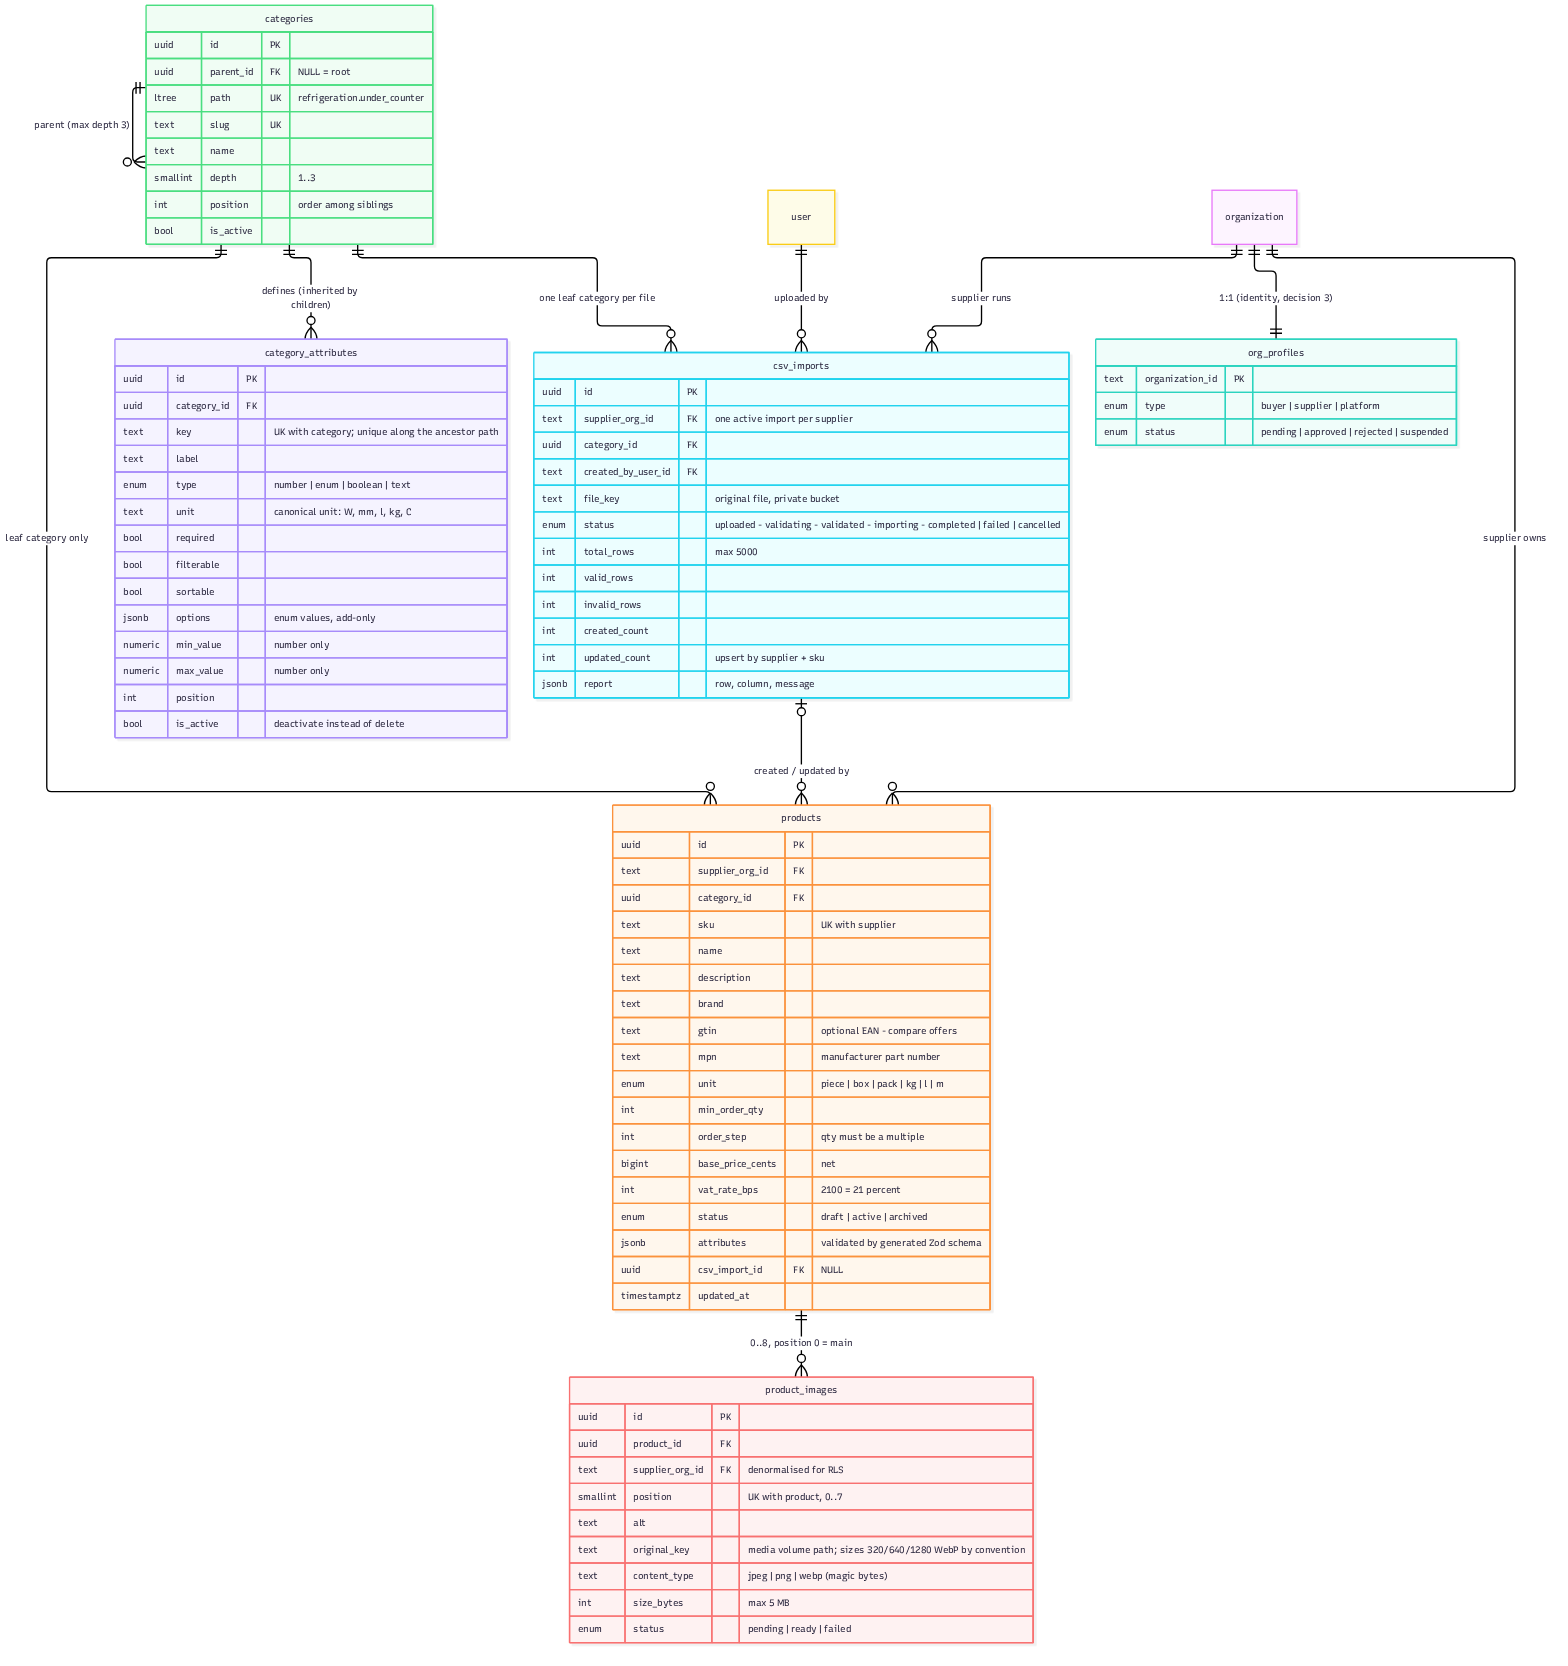
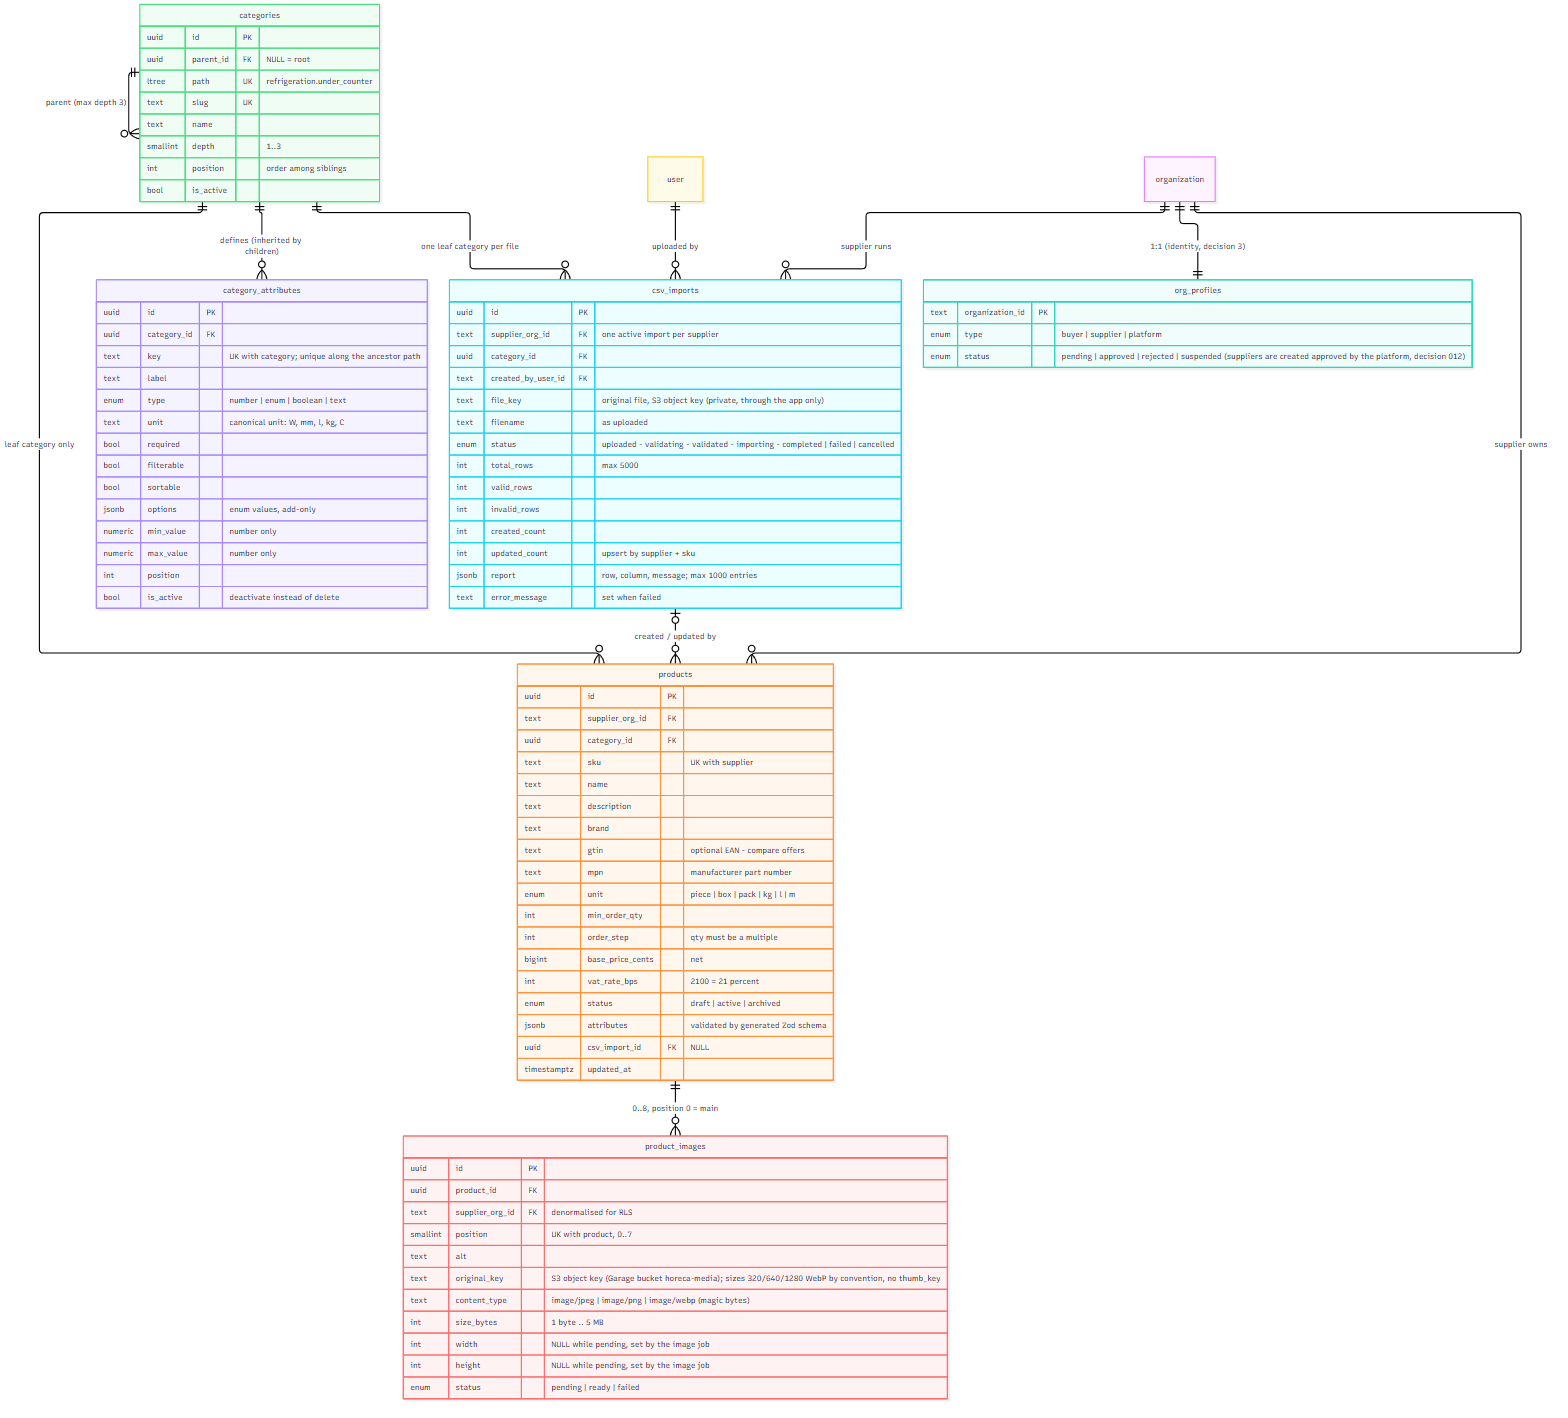
docs(diagrams): re-render the PNGs of diagrams 08, 09, 11 and 12 from their sources
The .mmd sources were updated in the previous diagram PR but the pictures still showed the old
design. They are now rendered with mermaid-cli 12.2.0 and local Chrome (scale 2, white background).

Rendering found a real error that reading could not: diagram 12 did not parse, because a semicolon
ends a statement in a Mermaid sequence diagram and two messages contained one. Both are rewritten.

The README now says how to re-render (version 12 has no -w option) and that the .mmd wins if a
picture and its source disagree; the data model no longer says the PNGs are pending.

Refs D4-B4

Changed region(s): [[0.0, 0.0, 0.9375, 0.9929], [0.9375, 0.3103, 1.0, 0.3413]]

diff --git a/docs/diagrams/README.md b/docs/diagrams/README.md
@@ -38,6 +38,6 @@ wireframes — run them against the decisions zip to regenerate everything.
 
 ## Status after the reviews (24.11.2026)
 - **Current and edited to match the plan:** `architecture`, `cicd`, `deployment`, `08-erd-catalogue`, `09-erd-orders`, `11-state-suborder`, `12-checkout-sequence` (`.mmd` + PNG). Overrides are listed in `docs/decisions-9-11/APPLIED.md`.
-- **Updated again on 26.11 (D4-B4), after migrations 0003–0005:** the `.mmd` sources of `08-erd-catalogue`, `09-erd-orders`, `11-state-suborder` and `12-checkout-sequence` now match the real schema and decision 012 (purchase mode per sub-order, no `orders.payment_method`, `not_applicable`, `commission_payment`, pro-forma for the platform part only, shipping waits for payment, system cancellation, S3 object keys, card payment and supplier submission after commit). **The PNGs of these four were not regenerated yet** — the `.mmd` is the truth until they are re-rendered.
+- **Updated again on 26.11 (D4-B4), after migrations 0003–0005:** the `.mmd` sources of `08-erd-catalogue`, `09-erd-orders`, `11-state-suborder` and `12-checkout-sequence` now match the real schema and decision 012 (purchase mode per sub-order, no `orders.payment_method`, `not_applicable`, `commission_payment`, pro-forma for the platform part only, shipping waits for payment, system cancellation, S3 object keys, card payment and supplier submission after commit). The PNGs of these four were **re-rendered from the `.mmd` on 26.11** (mermaid-cli 12.2.0, local Chrome): `pnpm dlx @mermaid-js/mermaid-cli@12.2.0 -p <puppeteer config with "executablePath" of Chrome> -i docs/diagrams/<name>.mmd -o docs/diagrams/<name>.png -b white -s 2` (run it with `PUPPETEER_SKIP_DOWNLOAD=1`; version 12 has no `-w`). Re-render after every change to a `.mmd`; if a picture and its `.mmd` disagree, the `.mmd` is right.
 - **Partly outdated — read with `APPLIED.md`:** `01-erd-complete` (still shows `invoice_counters` and `thumb_key`; regenerate from the real schema after the D4 migrations), `05-wf-supplier-dashboard` (shows the dropped pending / earned / ready-for-payout split), `02-sitemap` (shows suppliers browsing the catalogue and screens now on the "after the project" list), `07-permission-matrix` (catalogue row), `10-erd-stretch` (unchanged, still valid).
 - **On D20:** point the generators in `sources/` at the repository's real Drizzle schema, not at the original decision files.

diff --git a/docs/specification/data-model.md b/docs/specification/data-model.md
@@ -22,10 +22,10 @@ is a one-column comparison and a supplier never reads the buyer's `orders` row (
 | Diagram | Status |
 |---|---|
 | [`01-erd-complete`](../diagrams/01-erd-complete.png) — all tables | Pre-012. Needs `sub_orders.mode`, `supplier_submission`, `commission_payment`, `supplier_agreements`, `payments`, `payment_events`, `product_stock`; no `payment_method`, no `invoice_counters`, no `thumb_key`. Refreshed in D14-B3 |
-| [`08-erd-catalogue`](../diagrams/08-erd-catalogue.mmd), [`09-erd-orders`](../diagrams/09-erd-orders.mmd), [`11-state-suborder`](../diagrams/11-state-suborder.mmd), [`12-checkout-sequence`](../diagrams/12-checkout-sequence.mmd) | **Updated 26.11 (D4-B4):** the `.mmd` sources match migrations 0003–0005 and decision 012. The PNG renderings of these four are re-rendered separately |
+| [`08-erd-catalogue`](../diagrams/08-erd-catalogue.mmd), [`09-erd-orders`](../diagrams/09-erd-orders.mmd), [`11-state-suborder`](../diagrams/11-state-suborder.mmd), [`12-checkout-sequence`](../diagrams/12-checkout-sequence.mmd) | **Updated 26.11 (D4-B4):** the `.mmd` sources match migrations 0003–0005 and decision 012, and the PNGs were re-rendered from them |
 
-> **Honest note:** until the PNGs are re-rendered and `01-erd-complete` is refreshed (D14-B3), a picture and the text
-> below can disagree. The text of this file, the `.mmd` sources and `APPLIED.md` are right; the pictures lag.
+> **Honest note:** until `01-erd-complete` is refreshed (D14-B3), that one picture and the text below can disagree.
+> The text of this file, the `.mmd` sources and `APPLIED.md` are right; the old overview picture lags.
 
 ## 6.2 Entity descriptions
 
